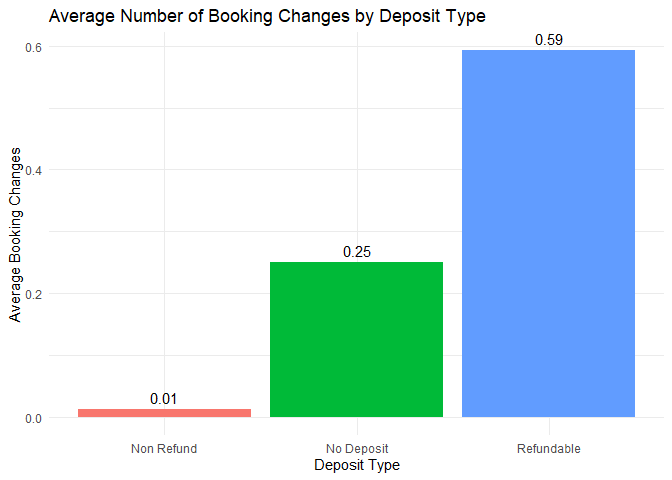
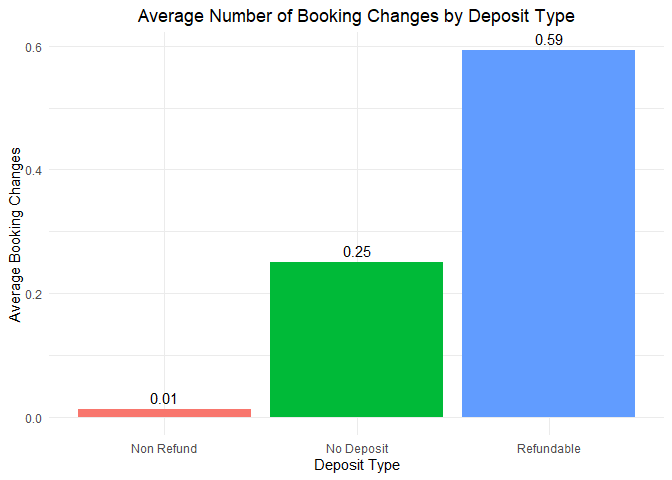
Centered graph titles

Changed region(s): [[0.0625, 0.0, 0.875, 0.0625]]

diff --git a/README.md b/README.md
@@ -409,7 +409,10 @@ ggplot(data, aes(x = lead_time, fill = factor(is_canceled))) +
   geom_histogram(position = "fill", bins = 50) +
   labs(title = "Cancellation Rate by Lead Time", x = "Lead Time (days)",
        y = "Proportion", fill = "Canceled") +
-  theme_minimal()
+  theme_minimal() + 
+  theme(
+    plot.title = element_text(hjust = 0.5)
+  )
 ```
 
 ![](README_files/figure-gfm/unnamed-chunk-7-1.png)<!-- -->
@@ -440,7 +443,10 @@ data %>%
     x = "Number of Previous Cancellations",
     y = "Cancellation Rate"
   ) +
-  theme_minimal()
+  theme_minimal() + 
+  theme(
+    plot.title = element_text(hjust = 0.5)
+  )
 ```
 
 ![](README_files/figure-gfm/unnamed-chunk-8-1.png)<!-- -->
@@ -468,7 +474,10 @@ data %>%
     y = "Cancellation Rate",
     fill = "Guest Type"
   ) +
-  theme_minimal()
+  theme_minimal()  + 
+  theme(
+    plot.title = element_text(hjust = 0.5)
+  )
 ```
 
 ![](README_files/figure-gfm/unnamed-chunk-8-2.png)<!-- -->
@@ -499,7 +508,9 @@ data %>%
     y = "Cancellation Rate"
   ) +
   theme_minimal() +
-  theme(legend.position = "none")
+  theme(legend.position = "none",
+    plot.title = element_text(hjust = 0.5)
+  )
 ```
 
 ![](README_files/figure-gfm/unnamed-chunk-9-1.png)<!-- -->
@@ -532,7 +543,9 @@ data %>%
     y = "Cancellation Rate"
   ) +
   theme_minimal() +
-  theme(legend.position = "none")
+  theme(legend.position = "none",
+    plot.title = element_text(hjust = 0.5)
+  )
 ```
 
 ![](README_files/figure-gfm/unnamed-chunk-10-1.png)<!-- -->
@@ -563,7 +576,9 @@ data %>%
     y = "Cancellation Rate"
   ) +
   theme_minimal() +
-  theme(legend.position = "none")
+  theme(legend.position = "none",
+    plot.title = element_text(hjust = 0.5)
+    )
 ```
 
 ![](README_files/figure-gfm/unnamed-chunk-11-1.png)<!-- -->
@@ -593,7 +608,10 @@ data %>%
     x = "Number of Special Requests",
     y = "Cancellation Rate"
   ) +
-  theme_minimal()
+  theme_minimal() + 
+  theme(
+    plot.title = element_text(hjust = 0.5)
+  )
 ```
 
 ![](README_files/figure-gfm/unnamed-chunk-12-1.png)<!-- -->
@@ -784,7 +802,10 @@ data %>%
     x = "Number of Changes",
     y = "Number of Bookings"
   ) +
-  theme_minimal()
+  theme_minimal() + 
+  theme(
+    plot.title = element_text(hjust = 0.5)
+  )
 ```
 
 ![](README_files/figure-gfm/unnamed-chunk-14-1.png)<!-- -->
@@ -814,7 +835,10 @@ data %>%
     x = "Number of Changes",
     y = "Cancellation Rate"
   ) +
-  theme_minimal()
+  theme_minimal() + 
+  theme(
+    plot.title = element_text(hjust = 0.5)
+  )
 ```
 
 ![](README_files/figure-gfm/unnamed-chunk-15-1.png)<!-- -->
@@ -839,7 +863,10 @@ data %>%
     y = "Proportion of Bookings",
     fill = "Hotel Type"
   ) +
-  theme_minimal()
+  theme_minimal() + 
+  theme(
+    plot.title = element_text(hjust = 0.5)
+  )
 ```
 
 ![](README_files/figure-gfm/unnamed-chunk-16-1.png)<!-- -->
@@ -853,18 +880,20 @@ longer lead time is the more booking changes will be made.
 
 ``` r
 data %>%
-  mutate(lead_time_bin = cut(lead_time, breaks = 20)) %>%  # auto-binning into 20 ranges
+  mutate(lead_time_bin = cut(lead_time, breaks = 20)) %>%  # bin
   group_by(lead_time_bin) %>%
   summarise(avg_booking_changes = mean(booking_changes), .groups = 'drop') %>%
   ggplot(aes(x = lead_time_bin, y = avg_booking_changes)) +
   geom_bar(stat = "identity") +
   labs(
-    title = "Average Booking Changes by Lead Time (Binned)",
-    x = "Lead Time (Binned)",
+    title = "Average Booking Changes by Lead Time",
+    x = "Lead Time",
     y = "Average Number of Booking Changes"
   ) +
   theme_minimal() +
-  theme(axis.text.x = element_text(angle = 45, hjust = 1))
+  theme(axis.text.x = element_text(angle = 45, hjust = 1),
+    plot.title = element_text(hjust = 0.5)
+  )
 ```
 
 ![](README_files/figure-gfm/unnamed-chunk-17-1.png)<!-- -->
@@ -888,7 +917,9 @@ customer is a returning guest and the number of booking changes made.
     y = "Average Booking Changes"
   ) +
   theme_minimal() +
-  theme(legend.position = "none")
+  theme(legend.position = "none",
+    plot.title = element_text(hjust = 0.5)
+  )
 ```
 
 ![](README_files/figure-gfm/unnamed-chunk-18-1.png)<!-- -->
@@ -919,7 +950,9 @@ ggplot(data, aes(x = customer_type, y = booking_changes, fill = customer_type)) 
     y = "Average Booking Changes"
   ) +
   theme_minimal() +
-  theme(legend.position = "none")
+  theme(legend.position = "none",
+    plot.title = element_text(hjust = 0.5)
+  )
 ```
 
 ![](README_files/figure-gfm/unnamed-chunk-19-1.png)<!-- -->
@@ -950,7 +983,9 @@ data %>%
     y = "Average Booking Changes"
   ) +
   theme_minimal() +
-  theme(legend.position = "none")
+  theme(legend.position = "none",
+    plot.title = element_text(hjust = 0.5)
+  )
 ```
 
 ![](README_files/figure-gfm/unnamed-chunk-20-1.png)<!-- -->
@@ -980,8 +1015,9 @@ ggplot(country_counts, aes(x = reorder(country, -count), y = count, fill = count
     x = "Country",
     y = "Number of Bookings"
   ) +
-  theme(axis.text.x = element_text(angle = 45, hjust = 1)) +
-  scale_fill_viridis_d()
+  theme(axis.text.x = element_text(angle = 45, hjust = 1),
+    plot.title = element_text(hjust = 0.5)
+  )
 ```
 
 ![](README_files/figure-gfm/unnamed-chunk-21-1.png)<!-- -->
